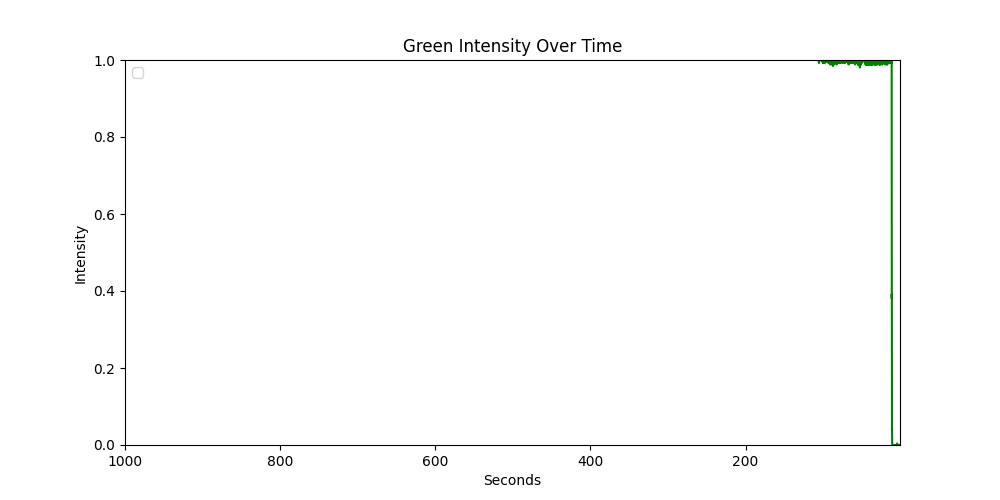
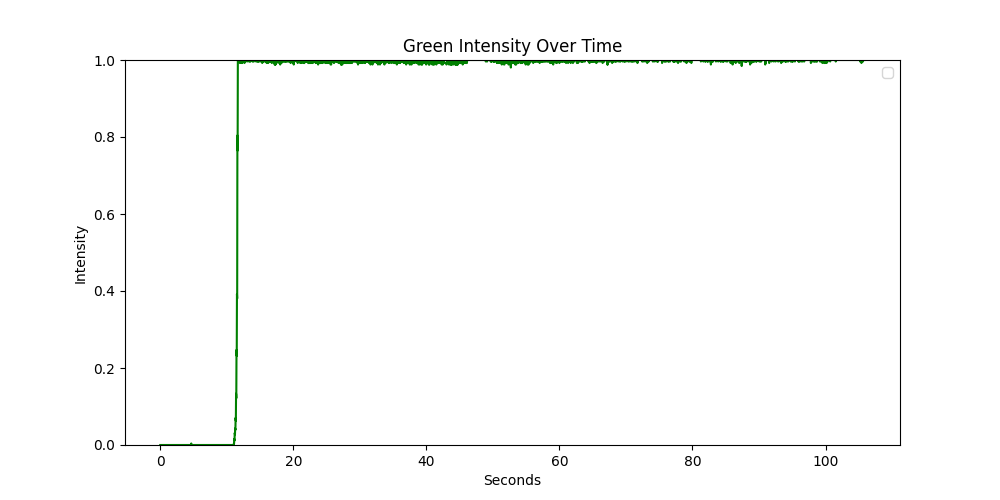
made sections

diff --git a/intensity.py b/intensity.py
@@ -3,76 +3,87 @@ import numpy as np
 import matplotlib.pyplot as plt
 import os
 
-#clear previous frames
-folder = 'frames/'
 
-for filename in os.listdir(folder):
-    file_path = os.path.join(folder, filename)
-    if os.path.isfile(file_path):
-        os.remove(file_path)
-# Input video path
-video_path = '8pt6C1mlmin100 - Copy.MP4'
 
-# Create output directory for frames
-output_dir = 'frames'
-os.makedirs(output_dir, exist_ok=True)
+# %% EXTRACTING FRAMES -------------------------------------------
+def extract(path):
 
-# Open the video file
-cap = cv2.VideoCapture(video_path)
+    #clear previous frames
+    folder = 'frames/'
 
-# Extracting frames
-frame_num = 0
+    for filename in os.listdir(folder):
+        file_path = os.path.join(folder, filename)
+        if os.path.isfile(file_path):
+            os.remove(file_path)
+    # Input video path
+    video_path = path
 
-counter =0
-while cap.isOpened():
-    ret, frame = cap.read()
-    if not ret:
-        break  # End of video
-    frame_rgb = cv2.cvtColor(frame, cv2.COLOR_BGR2RGB)
+    # Create output directory for frames
+    output_dir = 'frames'
+    os.makedirs(output_dir, exist_ok=True)
 
-    # Split color channels
-    r, g, b = cv2.split(frame_rgb)
-    green_channel = frame[:, :, 1]
-    frame[:, :, 0] = 0  # Blue channel
-    frame[:, :, 2] = 0  # Red channel
+    # Open the video file
+    cap = cv2.VideoCapture(video_path)
 
-    #Counts frames before injection starts
+    # Extracting frames
+    frame_num = 0
+
+    counter =0
+    while cap.isOpened():
+        ret, frame = cap.read()
+        if not ret:
+            break  # End of video
+        frame_rgb = cv2.cvtColor(frame, cv2.COLOR_BGR2RGB)
+
+        # Split color channels
+        r, g, b = cv2.split(frame_rgb)
+        green_channel = frame[:, :, 1]
+        frame[:, :, 0] = 0  # Blue channel
+        frame[:, :, 2] = 0  # Red channel
+
+        #Counts frames before injection starts
+        min_val, max_val, min_loc, max_loc = cv2.minMaxLoc(green_channel)
+        if max_val < 255:
+            counter += 1
+
+        
+        # Save current frame as image
+        frame_filename = os.path.join(output_dir, f'frame_{frame_num:04d}.jpg')
+        cv2.imwrite(frame_filename, frame)
+        
+        frame_num += 1
+
+    cap.release()
+    frames_folder = 'frames/'
+    frame_files = sorted(f for f in os.listdir(frames_folder)
+                        if f.endswith(('.png', '.jpg')))
+    print(f"Done! Extracted {frame_num} frames to '{output_dir}/'")
+    print(f"Done! Extracted {len(frame_files)} frames to '{output_dir}/'")
+
+    return frames_folder, frame_files, counter
+
+# %% CENTERING ------------------------------------------------------
+
+def find_center(folder,files, count) : 
+    frames_folder = folder
+    frame_files = files
+    counter = count
+    img = cv2.imread(os.path.join(frames_folder, frame_files[counter+1]))  # first frame with pure water
+
+
+    green_channel = img[:, :, 1]
+
+    # Find the location of the maximum green value in frame where injection begins
     min_val, max_val, min_loc, max_loc = cv2.minMaxLoc(green_channel)
-    if max_val < 255:
-        counter += 1
 
-    
-    # Save current frame as image
-    frame_filename = os.path.join(output_dir, f'frame_{frame_num:04d}.jpg')
-    cv2.imwrite(frame_filename, frame)
-    
-    frame_num += 1
-
-cap.release()
-frames_folder = 'frames/'
-frame_files = sorted(f for f in os.listdir(frames_folder)
-                     if f.endswith(('.png', '.jpg')))
-print(f"Done! Extracted {frame_num} frames to '{output_dir}/'")
-print(f"Done! Extracted {len(frame_files)} frames to '{output_dir}/'")
-
-# setup for functions
-
-
-img = cv2.imread(os.path.join(frames_folder, frame_files[counter+1]))  # first frame with pure water
-
-
-green_channel = img[:, :, 1]
-
-# Find the location of the maximum green value in frame where injection begins
-min_val, max_val, min_loc, max_loc = cv2.minMaxLoc(green_channel)
-
-print(f"Brightest green pixel intensity: {max_val}")
-print(f"Location (x, y): {max_loc}") 
-x,y =max_loc
-marked_img = img.copy()
-cv2.circle(marked_img, (x, y), radius=5, color=(0, 0, 255), thickness=2)
-# Save image with brightest pixel marked
-cv2.imwrite('marked_brightest_green.jpg', marked_img)
+    print(f"Brightest green pixel intensity: {max_val}")
+    print(f"Location (x, y): {max_loc}") 
+    x,y =max_loc
+    marked_img = img.copy()
+    cv2.circle(marked_img, (x, y), radius=5, color=(0, 0, 255), thickness=2)
+    # Save image with brightest pixel marked
+    cv2.imwrite('marked_brightest_green.jpg', marked_img)
+    return max_loc
 
 
 
@@ -80,11 +91,16 @@ cv2.imwrite('marked_brightest_green.jpg', marked_img)
 
 
 
+# %% FIND INTENSITY -------------------------------------------------------
 
 #function for finding average intensity of whole cell
-def find_avg():
+def find_intensity(folder,files,path, max):
+    frames_folder = folder
+    frame_files = files
     avg_green = []
     green = []
+    max_loc = max
+    x,y = max_loc
     print("Number of valid frames:", len(frame_files))
 
     for filename in frame_files:
@@ -108,75 +124,70 @@ def find_avg():
     #find and add the average intensities to a list
         avg_g = np.mean(masked_values)
         avg_green.append(avg_g) 
-
+    #recording values of single pixel (currently injection point)
         pixel = img[y,x]  
         green.append(pixel[1])
     return avg_green, green
 
 
-#function for finding intensity of a specific pixel
-def check_regions(folder):
-    
-
-    for filename in frame_files:
-        if filename.endswith('.png') or filename.endswith('.jpg'):
-            path = os.path.join(frames_folder, filename)
-            img = cv2.imread(path)
-            #choose injection point pixel (initially brightest)
-            
-
-    return green
-
-avg_green, green = find_avg()
 
 
-#converting y axis from frames to seconds
-fps = 30  
-times_in_seconds = [i / fps for i in range(len(avg_green))]
-#normalizing x axis
-avg_intensity = [(x) / (255) for x in avg_green]
-intensity = [(x) / (255) for x in green]
+# %% PLOTTING -------------------------------------------------------------
 
-print(len(avg_green))
+def plotting(avg,g, path):
+    avg_green = avg
+    green = g
+    video_path = path
+    #converting y axis from frames to seconds
+    fps = 30  
+    times_in_seconds = [i / fps for i in range(len(avg_green))]
+    #normalizing x axis
+    avg_intensity = [(x) / (255) for x in avg_green]
+    intensity = [(x) / (255) for x in green]
 
-#Plotting 
+    print(len(avg_green))
+
+    #Plotting 
 
 
-plt.figure(figsize=(10, 5))
-plt.ylim(0, 1)
-#plt.xlim(right=100)
+    plt.figure(figsize=(10, 5))
+    plt.ylim(0, 1)
+    #plt.xlim(right=100)
 
-plt.plot(times_in_seconds, avg_intensity, color='green')
+    plt.plot(times_in_seconds, avg_intensity, color='green')
 
 
-plt.title('Average Green Intensity Over Time')
-plt.xlabel('Seconds')
-plt.ylabel('Average Intensity')
-plt.legend()
-plt.savefig(video_path+'green_channel_only.png')
+    plt.title('Average Green Intensity Over Time')
+    plt.xlabel('Seconds')
+    plt.ylabel('Average Intensity')
+    plt.legend()
+    plt.savefig(video_path+'green_channel_only.png')
 
 
 
-plt.figure(figsize=(10, 5))
-plt.ylim(0, 1)
-#plt.xlim(right=100)
+    plt.figure(figsize=(10, 5))
+    plt.ylim(0, 1)
+    #plt.xlim(right=100)
 
-plt.plot(times_in_seconds, intensity, color='green')
+    plt.plot(times_in_seconds, intensity, color='green')
 
 
-plt.title('Green Intensity Over Time')
-plt.xlabel('Seconds')
-plt.ylabel('Intensity')
-plt.legend()
-plt.savefig(video_path+'green_channel.png')
+    plt.title('Green Intensity Over Time')
+    plt.xlabel('Seconds')
+    plt.ylabel('Intensity')
+    plt.legend()
+    plt.savefig(video_path+'green_channel.png')
 
-#testing
 
-print("Frame count:", len(frame_files))
-print("Image shape:", img.shape)
 
-for t, g in zip(times_in_seconds[:10], avg_green[:10]):
-    print(f"{t:.2f} s → {g}")
+
+path = '8pt6C1mlmin100 - Copy.MP4'
+files, folder, counter = extract(path)
+max = find_center(files,folder, counter)
+avg,g = find_intensity(files, folder, path, max)
+plotting(avg,g,path)
+
+
 
 
 
